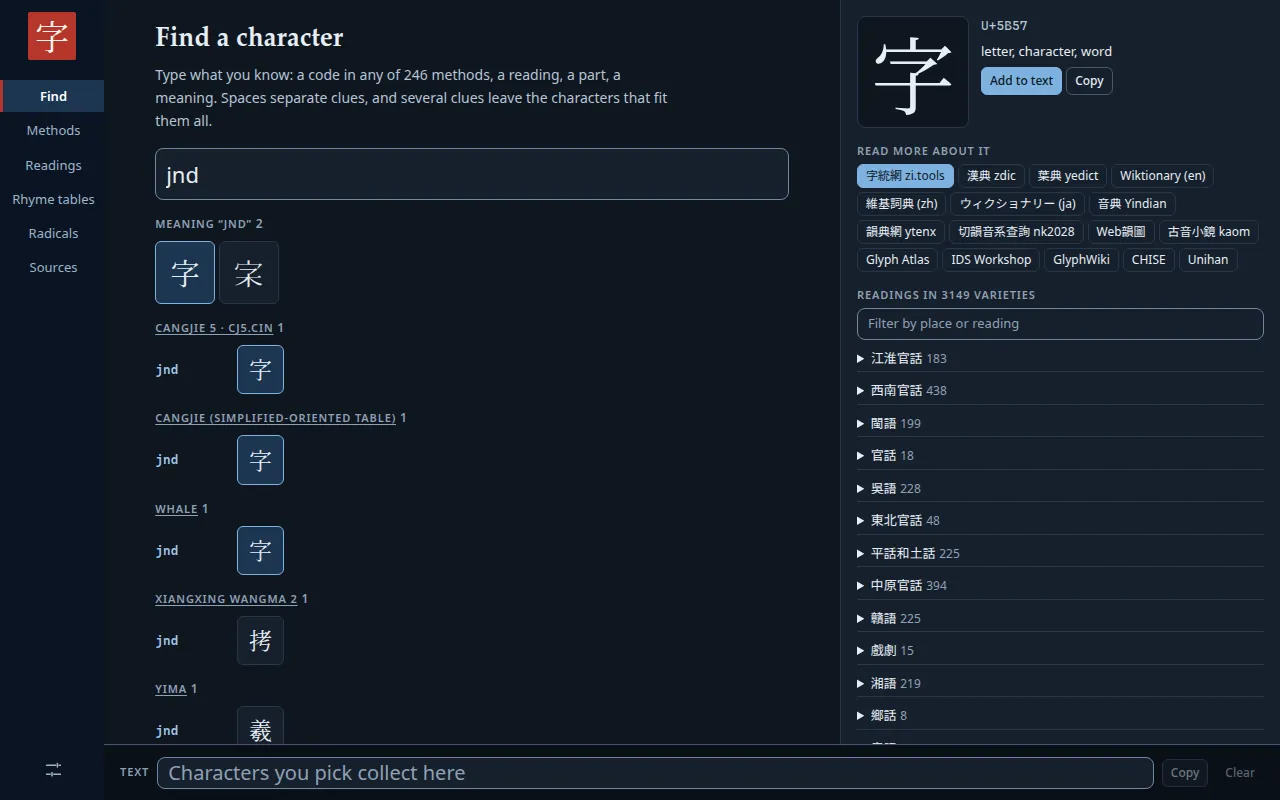
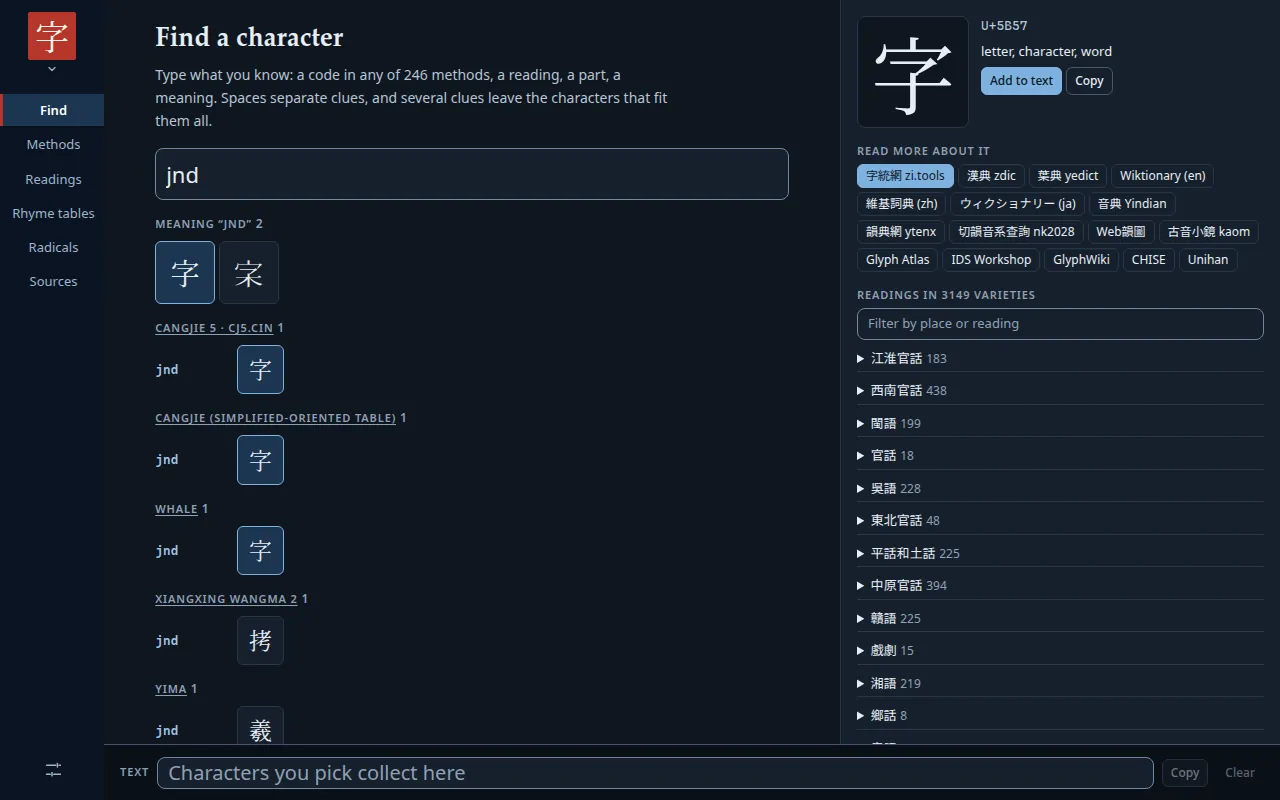
feat: link Han Input now that it is public

Changed region(s): [[0.0, 0.0938, 0.0938, 0.375]]

diff --git a/src/page.ts b/src/page.ts
@@ -33,7 +33,7 @@ export interface Work {
   id: string
   name: string
   lang?: string
-  href?: string
+  href: string
   shot?: string
   night?: boolean
   drawn?: string
@@ -151,10 +151,8 @@ ${LOCALES.map(
 </header>`
 }
 
-function address(work: Work, t: Catalogue): string {
-  return work.href
-    ? `<span class="address">${esc(hostOf(work.href))} <span aria-hidden="true">↗</span></span>`
-    : `<span class="address pending">${esc(t['site.pending']!)}</span>`
+function address(work: Work): string {
+  return `<span class="address">${esc(hostOf(work.href))} <span aria-hidden="true">↗</span></span>`
 }
 
 function card(work: Work, t: Catalogue): string {
@@ -170,11 +168,9 @@ function card(work: Work, t: Catalogue): string {
 <div class="caption">
 <h3 class="work-name"${nameTag(work)}>${esc(work.name)}</h3>
 <p class="desc">${esc(t['work.' + work.id]!)}</p>
-${address(work, t)}
+${address(work)}
 </div>`
-  return work.href
-    ? `<a class="work" href="${work.href}" rel="noopener">${body}</a>`
-    : `<div class="work">${body}</div>`
+  return `<a class="work" href="${work.href}" rel="noopener">${body}</a>`
 }
 
 function row(work: Work, t: Catalogue): string {
@@ -182,7 +178,7 @@ function row(work: Work, t: Catalogue): string {
   return `<li><a class="row" href="${work.href}" rel="noopener">
 <span class="row-name"${nameTag(work)}>${esc(work.name)}</span>
 <span class="row-desc">${esc(t['work.' + work.id]!)}${sample}</span>
-${address(work, t)}
+${address(work)}
 </a></li>`
 }
 

diff --git a/tests/content.test.ts b/tests/content.test.ts
@@ -41,8 +41,8 @@ describe('works', () => {
     }
   })
 
-  test('a work without a picture has an address to show', () => {
-    for (const w of works.filter((w) => !w.shot && !w.drawn)) expect(w.href).toBeDefined()
+  test('every work has an address', () => {
+    for (const w of works) expect(w.href).toStartWith('https://')
   })
 })
 
@@ -51,7 +51,7 @@ describe('pages', () => {
     test(`${key} links every public work and leaves no placeholder`, () => {
       const html = renderPage(key)
       expect(html).toContain(`<html lang="${key}">`)
-      for (const w of works) if (w.href) expect(html).toContain(`href="${w.href}"`)
+      for (const w of works) expect(html).toContain(`href="${w.href}"`)
       expect(html).not.toContain('{name}')
     })
   }

diff --git a/public/site.css b/public/site.css
@@ -214,7 +214,6 @@ a.work:hover { border-color: var(--a); }
 .work-name { font-family: var(--display); font-size: 1.3125rem; font-weight: 400; line-height: 1.3; }
 .desc { flex: 1; margin-top: 0.375rem; color: var(--soft); font-size: 0.9375rem; }
 .address { margin-top: 0.75rem; color: var(--a); font-size: 0.8125rem; }
-.address.pending { color: var(--muted); }
 
 .works + .rows { margin-top: clamp(1rem, 2vw, 1.5rem); }
 
